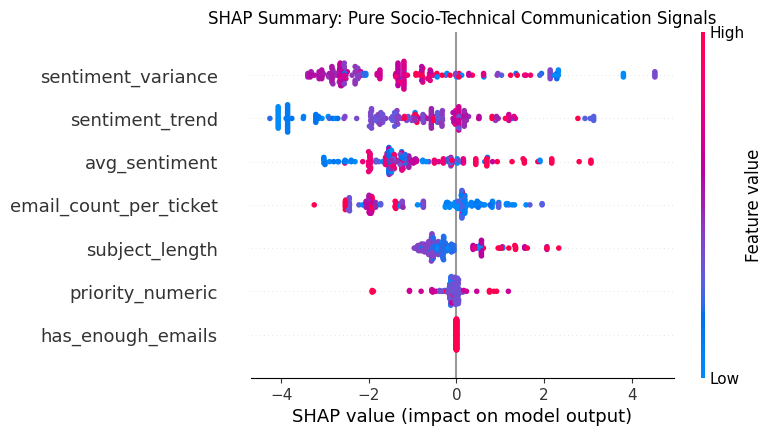
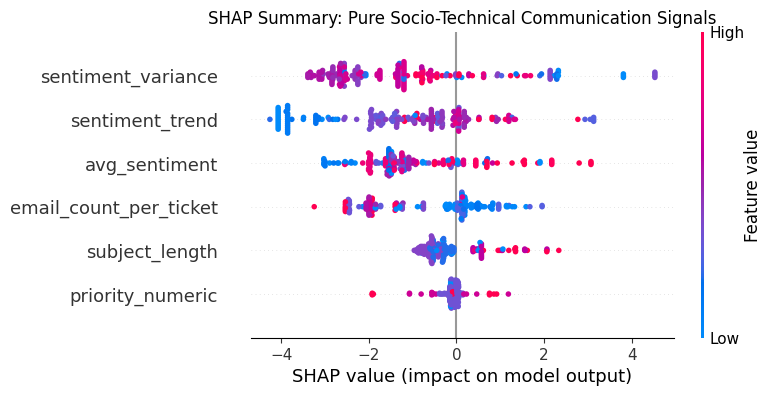
Confirmed 6-core signal architecture and updated honest models

diff --git a/app.py b/app.py
@@ -336,10 +336,11 @@ def load_assets():
 
 model, explainer = load_assets()
 
+# Removed has_enough_emails for the 6 Core Signals approach
 features = [
     'email_count_per_ticket', 'subject_length',
     'avg_sentiment', 'sentiment_variance', 'sentiment_trend',
-    'priority_numeric', 'has_enough_emails'
+    'priority_numeric'
 ]
 
 PRIORITY_MAP = {1: "Trivial", 2: "Minor", 3: "Major", 4: "Critical", 5: "Blocker"}
@@ -374,19 +375,17 @@ with st.sidebar:
     priority = st.selectbox("Ticket Priority", [1, 2, 3, 4, 5], index=2,
                              format_func=lambda x: f"{x} — {PRIORITY_MAP[x]}")
 
-    has_enough = 1 if email_count >= 2 else 0
-
     st.markdown(f"""
 <div style="margin-top:1.5rem; padding:0.8rem; background:#0a0e1a; border:1px solid #1e2d45; border-radius:6px; font-family:'IBM Plex Mono',monospace; font-size:0.65rem; color:#4a5a72; line-height:2;">
-    has_enough_emails → <span style="color:#06b6d4">{has_enough}</span><br>
     priority_numeric → <span style="color:#06b6d4">{priority}</span><br>
-    features active → <span style="color:#06b6d4">7 / 7</span>
+    features active → <span style="color:#06b6d4">6 / 6</span>
 </div>
 """, unsafe_allow_html=True)
 
 
 # ── PREDICTION ──────────────────────────────────────────────────────────────
-input_array = np.array([[email_count, subject_length, avg_sent, sent_var, sent_trend, priority, has_enough]])
+# Updated input array to 6 features
+input_array = np.array([[email_count, subject_length, avg_sent, sent_var, sent_trend, priority]])
 input_df = pd.DataFrame(input_array, columns=features)
 prob_stalled = model.predict_proba(input_df)[0][1]
 pct = prob_stalled * 100
@@ -428,7 +427,7 @@ st.markdown(f"""
     </div>
     <div class="header-badge">
         MODEL · XGBoost (ISA III)<br>
-        FEATURES · 7 Pure Signals<br>
+        FEATURES · 6 Pure Signals<br>
         DATASET · Apache Hadoop 2023–2024
     </div>
 </div>
@@ -496,21 +495,21 @@ with col_left:
 </div>
 """, unsafe_allow_html=True)
 
-    # Model performance chips
+    # Model performance chips with updated ISA III metrics
     st.markdown('<div class="section-header" style="margin-top:1.2rem;">Model Performance</div>', unsafe_allow_html=True)
     st.markdown("""
 <div class="metrics-row">
     <div class="metric-chip">
         <div class="metric-chip-label">Recall</div>
-        <div class="metric-chip-value">0.97</div>
+        <div class="metric-chip-value">0.89</div>
     </div>
     <div class="metric-chip">
         <div class="metric-chip-label">Precision</div>
-        <div class="metric-chip-value">0.78</div>
+        <div class="metric-chip-value">0.79</div>
     </div>
     <div class="metric-chip">
         <div class="metric-chip-label">PR-AUC</div>
-        <div class="metric-chip-value">0.94</div>
+        <div class="metric-chip-value">0.93</div>
     </div>
     <div class="metric-chip">
         <div class="metric-chip-label">Threshold</div>
@@ -606,7 +605,7 @@ st.markdown(f"""
         Rudresh Achari · Unnat Umarye · Sarvadhnya Patil · Samuel Bhandari · Harsh Palyekar
     </div>
     <div class="footer-right">
-        Model: XGBoost (Honest Features) · 7 Pure Communication Signals<br>
+        Model: XGBoost (Honest Features) · 6 Pure Communication Signals<br>
         Training: 1,000 Human Records · Apache Hadoop 2023–2024<br>
         Threshold: 0.50 · Validated by PR-AUC Curve
     </div>

diff --git a/scripts/04_feature_engineering.py b/scripts/04_feature_engineering.py
@@ -287,10 +287,8 @@ HONEST_ML_FEATURES = [
     'avg_sentiment', 
     'sentiment_variance', 
     'sentiment_trend',
-    'priority_numeric',
-    'has_enough_emails'
+    'priority_numeric'
 ]
-
 # Features identified as Target Leakage (Structural Proxies)
 LEAKING_FEATURES = [
     'is_assigned', 

diff --git a/scripts/05_model_evaluation.py b/scripts/05_model_evaluation.py
@@ -17,7 +17,7 @@ df = pd.read_csv("data/processed/isa3_enriched_dataset.csv")
 safe_features = [
     'email_count_per_ticket', 'subject_length',                      
     'avg_sentiment', 'sentiment_variance', 'sentiment_trend',        
-    'priority_numeric', 'has_enough_emails'                          
+    'priority_numeric'                         
 ]
 
 X_model = df[safe_features]

diff --git a/scripts/06_shap_analysis.py b/scripts/06_shap_analysis.py
@@ -14,7 +14,7 @@ df = pd.read_csv("data/processed/isa3_enriched_dataset.csv")
 safe_features = [
     'email_count_per_ticket', 'subject_length',                      
     'avg_sentiment', 'sentiment_variance', 'sentiment_trend',        
-    'priority_numeric', 'has_enough_emails'                          
+    'priority_numeric'                        
 ]
 
 X = df[safe_features]

diff --git a/README.md b/README.md
@@ -149,14 +149,15 @@ Socio-Technical-Health-Monitor/
 │   └── isa3_shap_explainer_honest.pkl
 │
 ├── visuals/
-│   ├── 1_sentiment_by_priority.png
-│   ├── 2_stalled_vs_active.png
-│   ├── 3_correlation_heatmap.png
-│   ├── 5_monthly_sentiment_trend.png
-│   ├── 6_email_volume_distribution.png
-│   ├── 7_task_status_by_priority.png
-│   ├── isa3_honest_shap_summary.png
-│   └── isa3_honest_pr_curve.png
+│   ├── eda_plots/                    # EDA charts (output of 07_eda_visualizations.py)
+│   │   ├── 1_sentiment_by_priority.png
+│   │   ├── 2_stalled_vs_active.png
+│   │   ├── 3_correlation_heatmap.png
+│   │   ├── 5_monthly_sentiment_trend.png
+│   │   ├── 6_email_volume_distribution.png
+│   │   └── 7_task_status_by_priority.png
+│   ├── isa3_honest_shap_summary.png  # Output of 06_shap_analysis.py
+│   └── isa3_honest_pr_curve.png      # Output of 06_shap_analysis.py
 │
 ├── tests/
 │   └── test_parse.py                 # Unit tests for email extraction logic
@@ -225,7 +226,7 @@ python scripts/05_model_evaluation.py
 # Step 6 — Train final XGBoost, generate SHAP plots, export .pkl files
 python scripts/06_shap_analysis.py
 
-# Step 7 — Generate all EDA visualisations
+# Step 7 — Generate all EDA visualisations (saved to visuals/eda_plots/)
 python scripts/07_eda_visualizations.py
 
 # Launch the interactive Streamlit dashboard